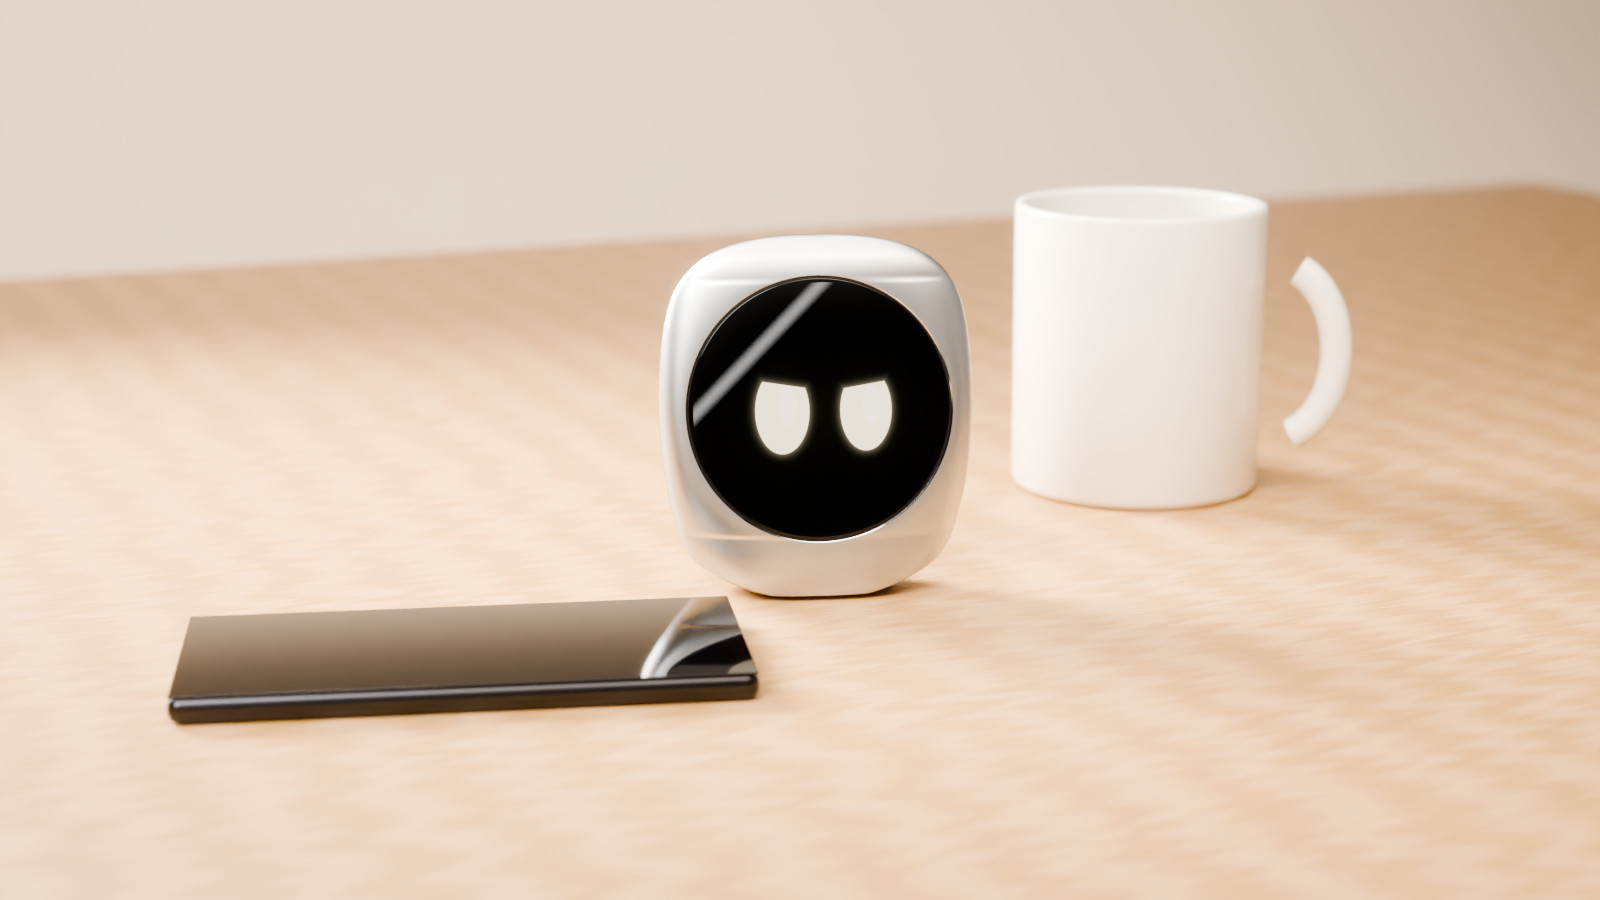
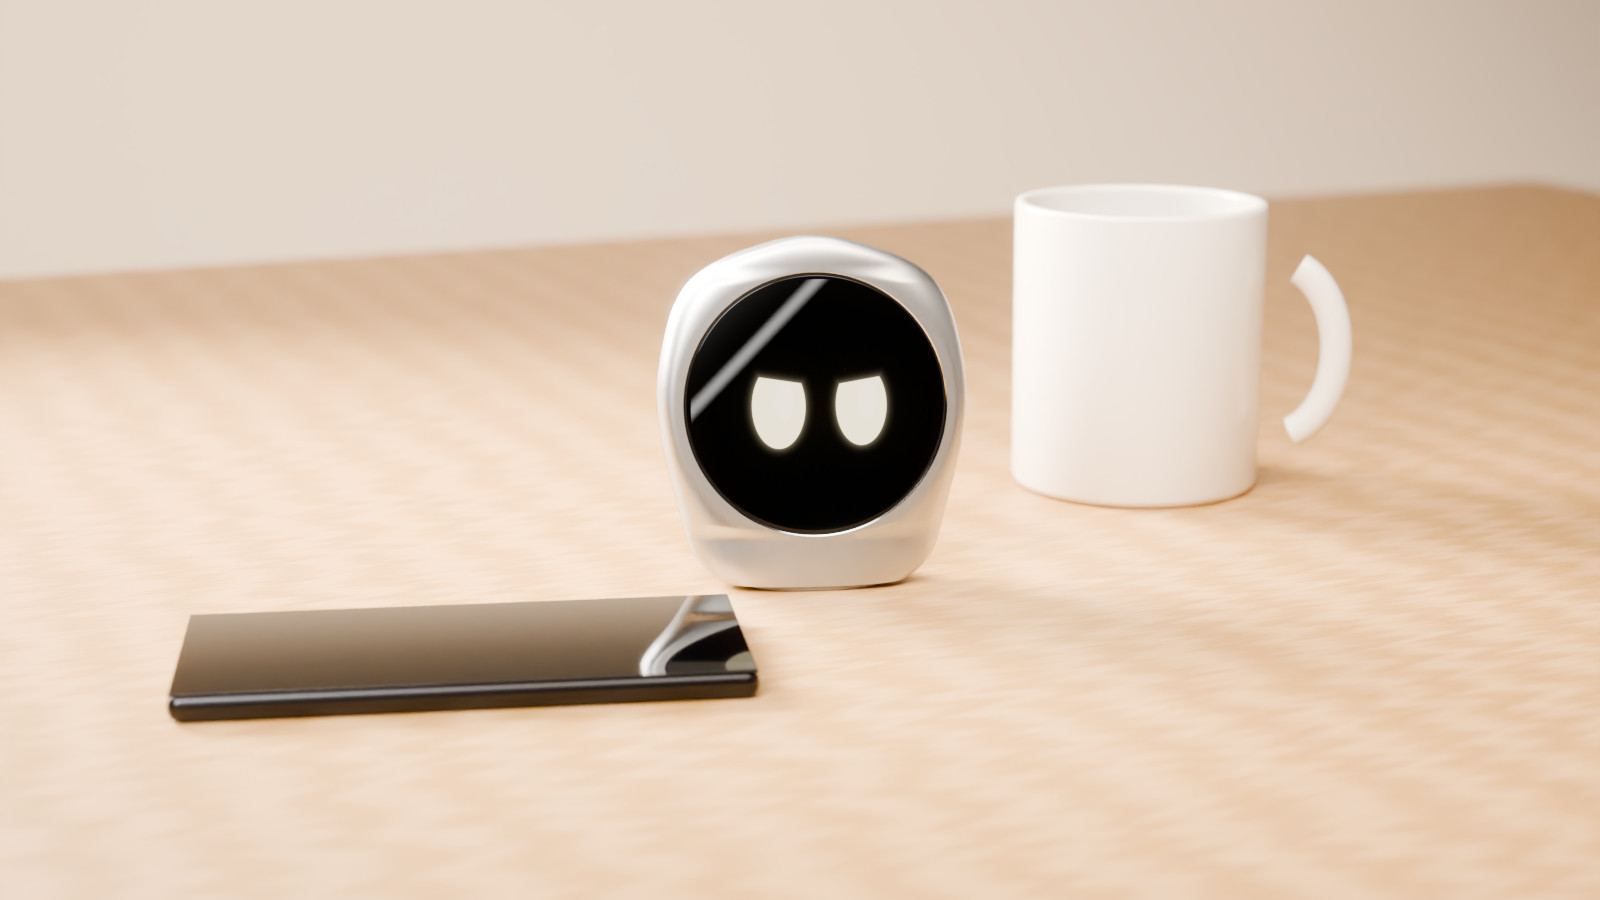
Landing page: SOUL images replaced with v9 MĂRGĂRITAR renders (same names, sizes, crops)
Claude-Session: https://claude.ai/code/session_01Ck8guzeJBknbgPsaU2FiFA

Changed region(s): [[0.0938, 0.2489, 0.625, 0.8089], [0.6875, 0.56, 0.75, 0.5911], [0.75, 0.5289, 0.7812, 0.56]]

diff --git a/micul-smecher/renders/v9/src/compose_v9.py b/micul-smecher/renders/v9/src/compose_v9.py
@@ -65,7 +65,7 @@ def site():
         sm = im.resize((size[0] // 2, size[1] // 2), Image.LANCZOS)
         for nm, img in (('soul-m-%s.jpg' % k, full), ('soul-m-%s-sm.jpg' % k, sm)):
             p = os.path.join(SITE, nm)
-            img.save(p, 'JPEG', quality=90, optimize=True, progressive=True)
+            img.save(p, 'JPEG', quality=90, subsampling=0, optimize=True, progressive=True)
             print('wrote', p, img.size, os.path.getsize(p) // 1000, 'kB')
 
 
